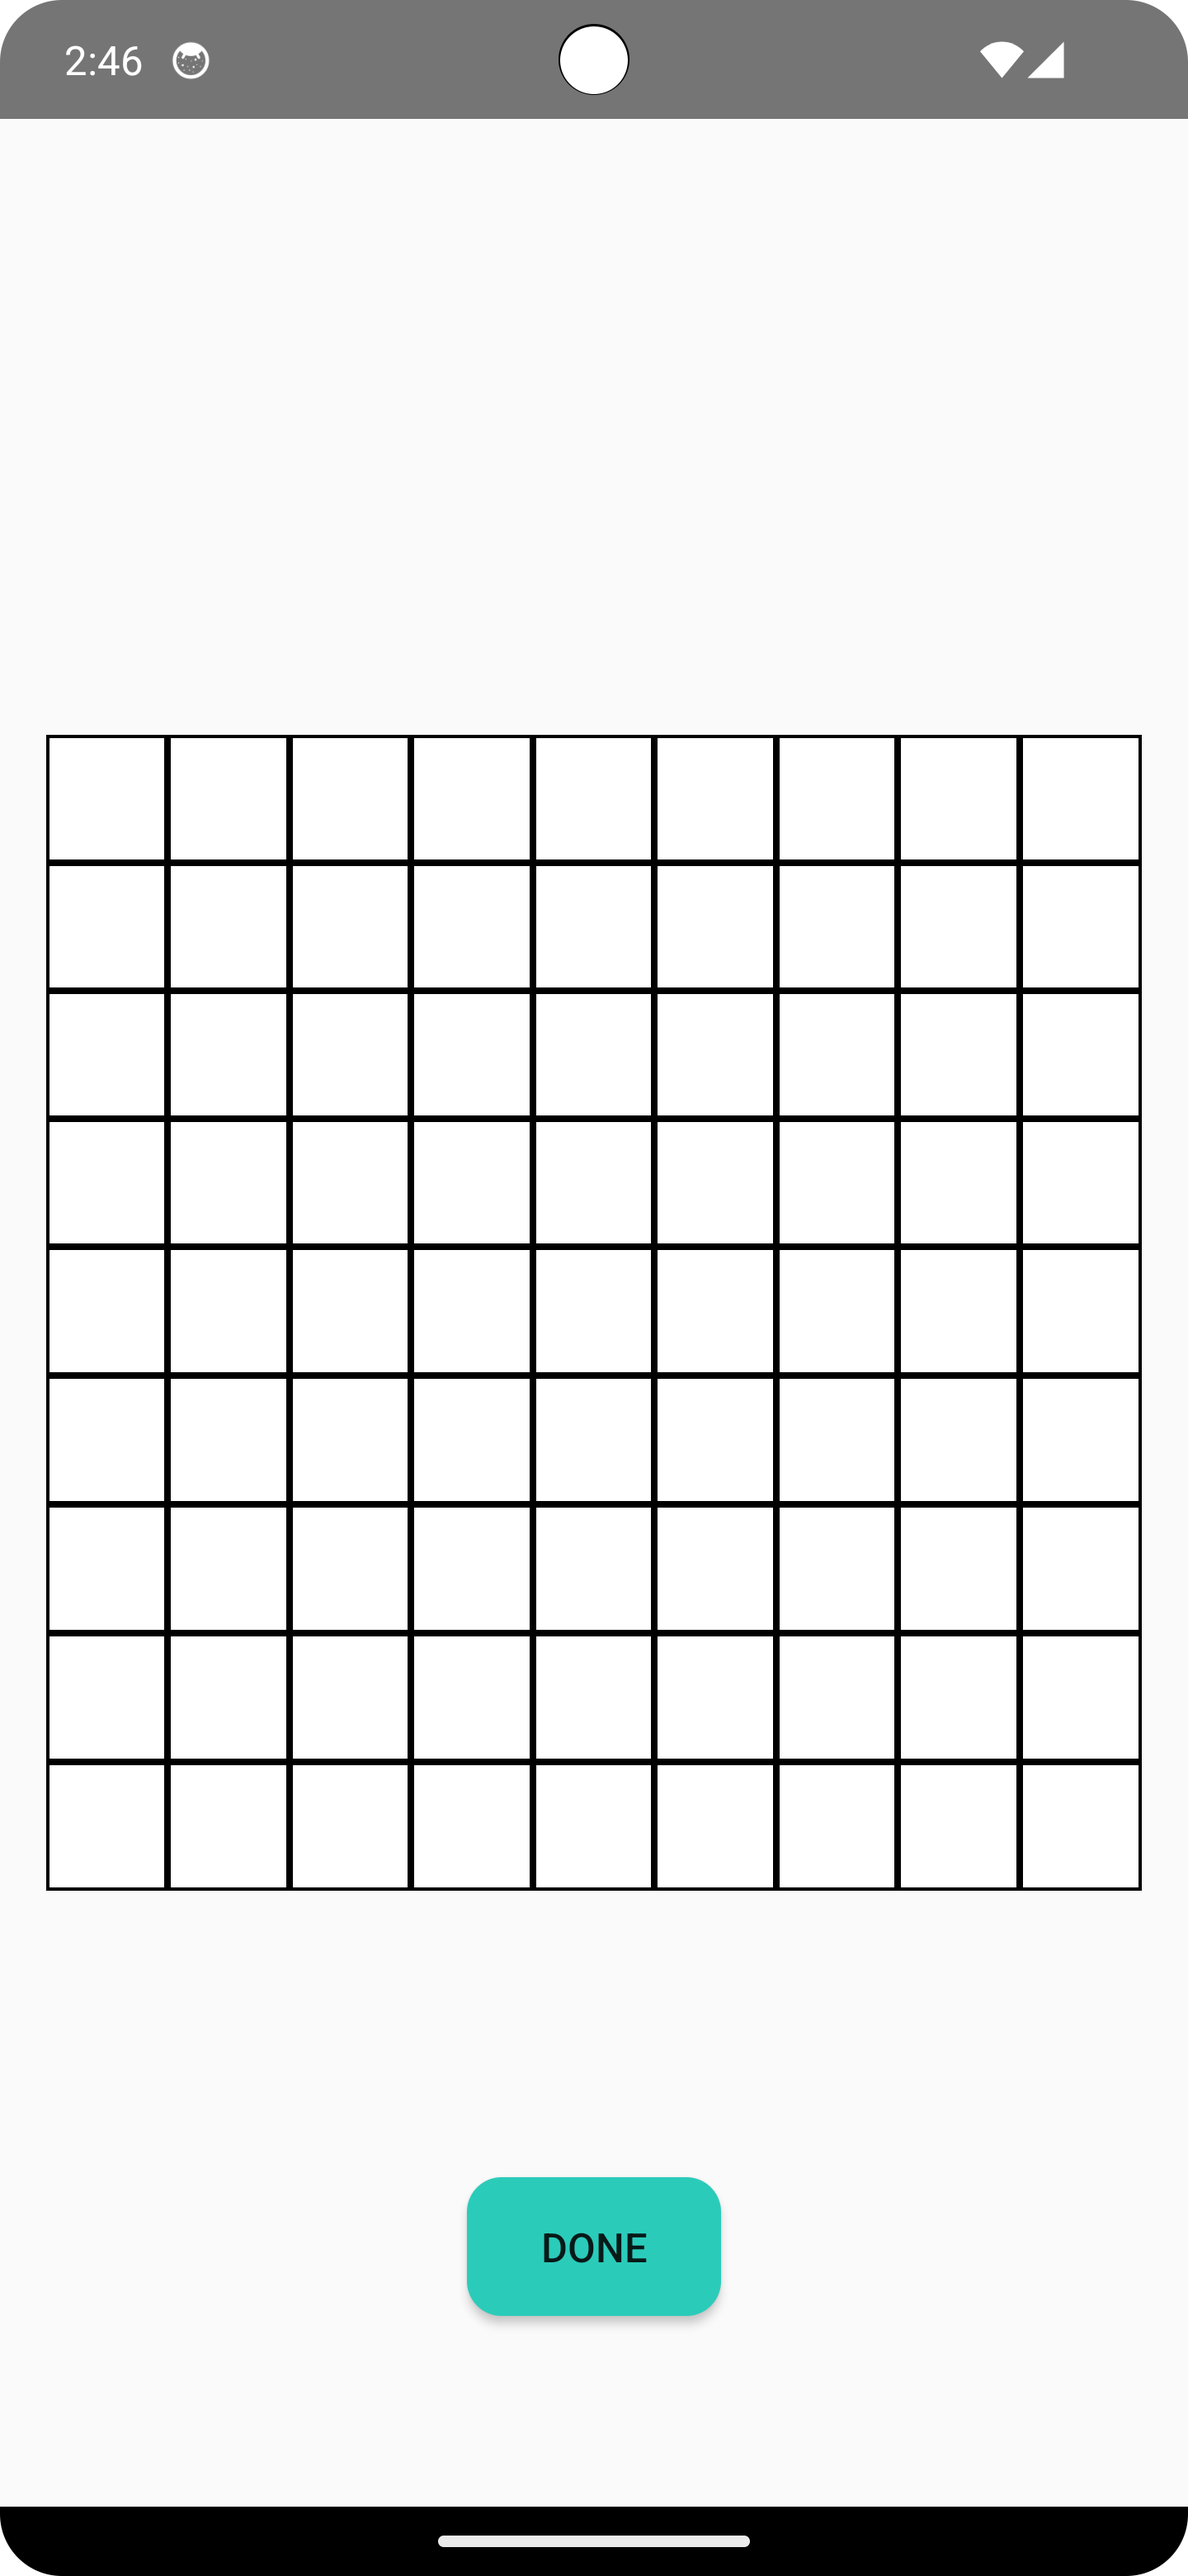
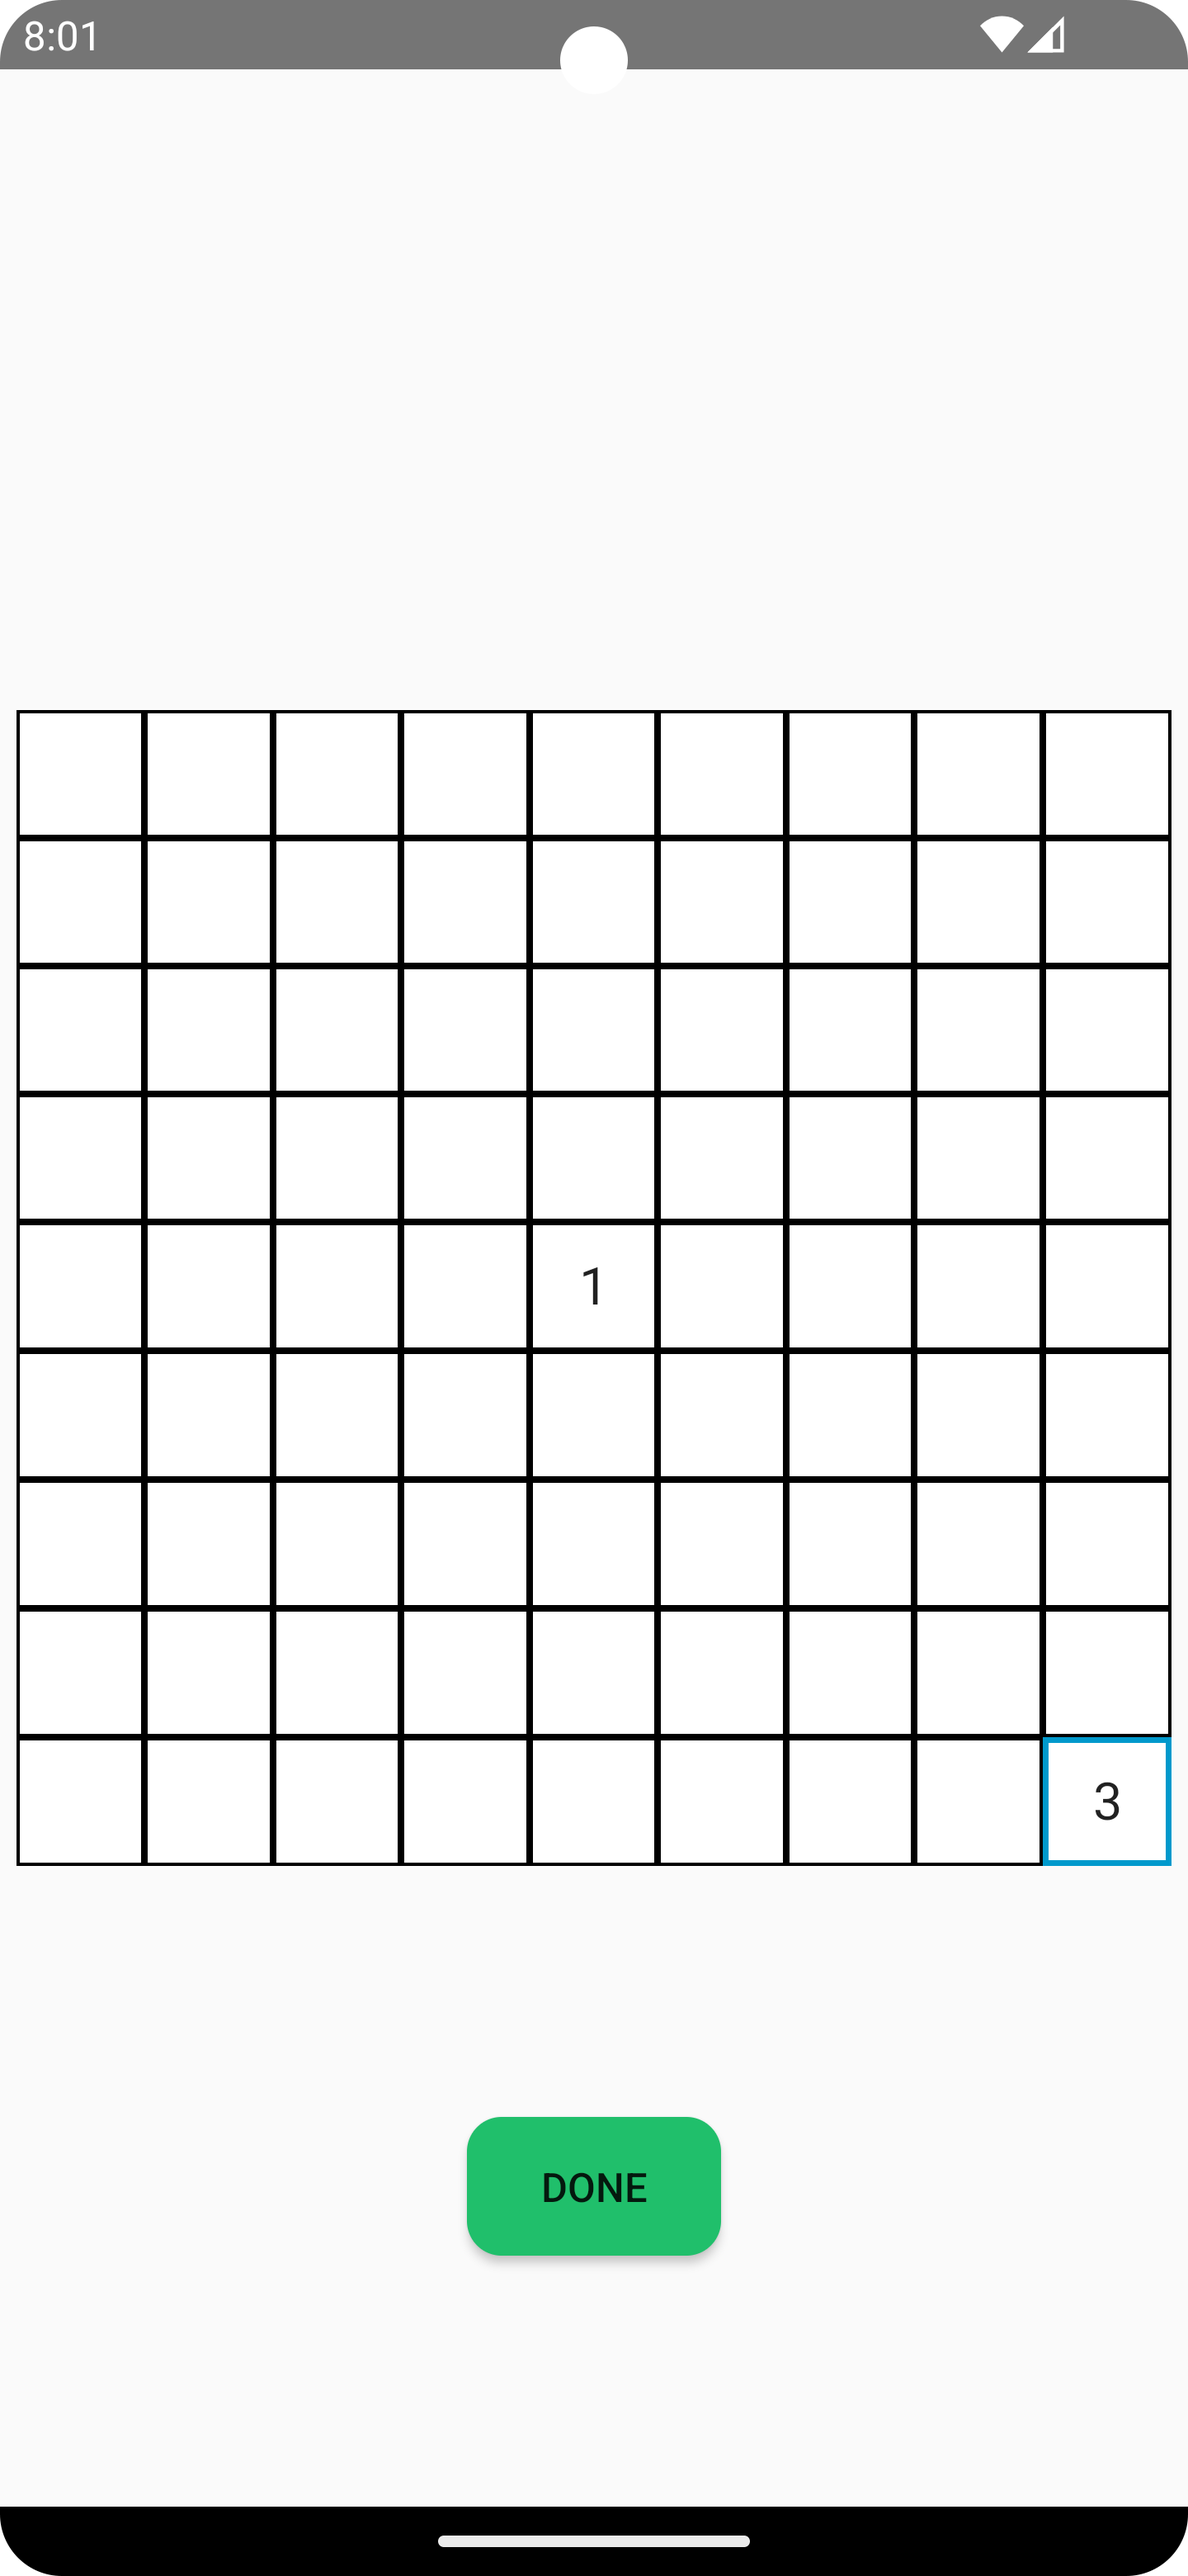
big ui/ux changes and fix camera canceled bug (#13)
* big ui/ux changes and fix camera canceled bug

* renewed screenshots of app

---------

Changed region(s): [[0.0, 0.2798, 1.0, 0.7462], [0.0, 0.0, 1.0, 0.0622], [0.375, 0.8083, 0.625, 0.9016]]

diff --git a/app/src/main/java/de/dhbw/sudokinator/MainActivity.kt b/app/src/main/java/de/dhbw/sudokinator/MainActivity.kt
@@ -37,8 +37,17 @@ class MainActivity : AppCompatActivity() {
 
     private val cameraActivityResultLauncher =
         registerForActivityResult(ActivityResultContracts.StartActivityForResult()) {
-            val imageBitmap = it.data?.extras?.get("data") as Bitmap
-            scanBoard(imageBitmap)
+            when (it.resultCode) {
+                RESULT_OK -> {
+                    val imageBitmap = it.data?.extras?.get("data") as? Bitmap
+                    if (imageBitmap != null) {
+                        scanBoard(imageBitmap)
+                    } else {
+                        toastErrorSomething()
+                    }
+                }
+            }
+
         }
     private val editActivityResultLauncher =
         registerForActivityResult(ActivityResultContracts.StartActivityForResult()) {
